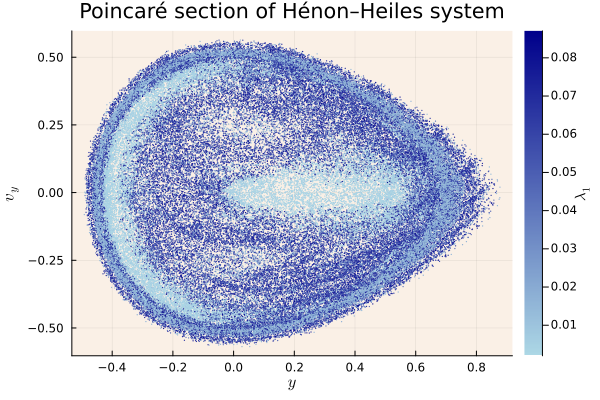
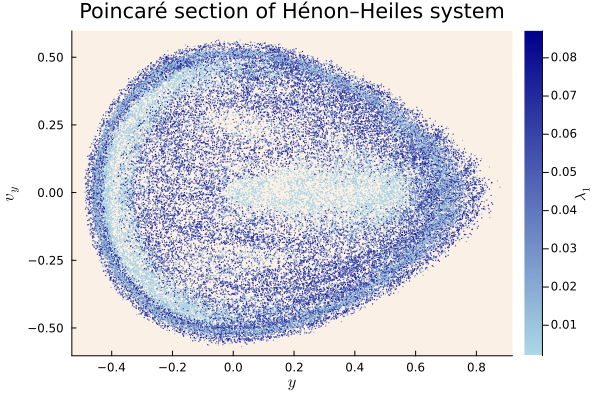
correct 3.16 and add fun plots

diff --git a/README.md b/README.md
@@ -6,6 +6,15 @@
 
 ![Exercise 3.16](plots/exercise3_16.png)
 
+![Exercise 3.16](plots/fun/exercise3_16_fun_Greens.png)
+![Exercise 3.16](plots/fun/exercise3_16_fun_imola.png)
+![Exercise 3.16](plots/fun/exercise3_16_fun_inferno.png)
+![Exercise 3.16](plots/fun/exercise3_16_fun_lipari.png)
+![Exercise 3.16](plots/fun/exercise3_16_fun_nuuk.png)
+![Exercise 3.16](plots/fun/exercise3_16_fun_Purples.png)
+![Exercise 3.16](plots/fun/exercise3_16_fun_spring.png)
+![Exercise 3.16](plots/fun/exercise3_16_fun_winter.png)
+
 ## Exercise 3.15
 [Code](https://github.com/ianwineman/nonlinear-dynamics/blob/main/exercises/3/exercise3_15.jl)
 
